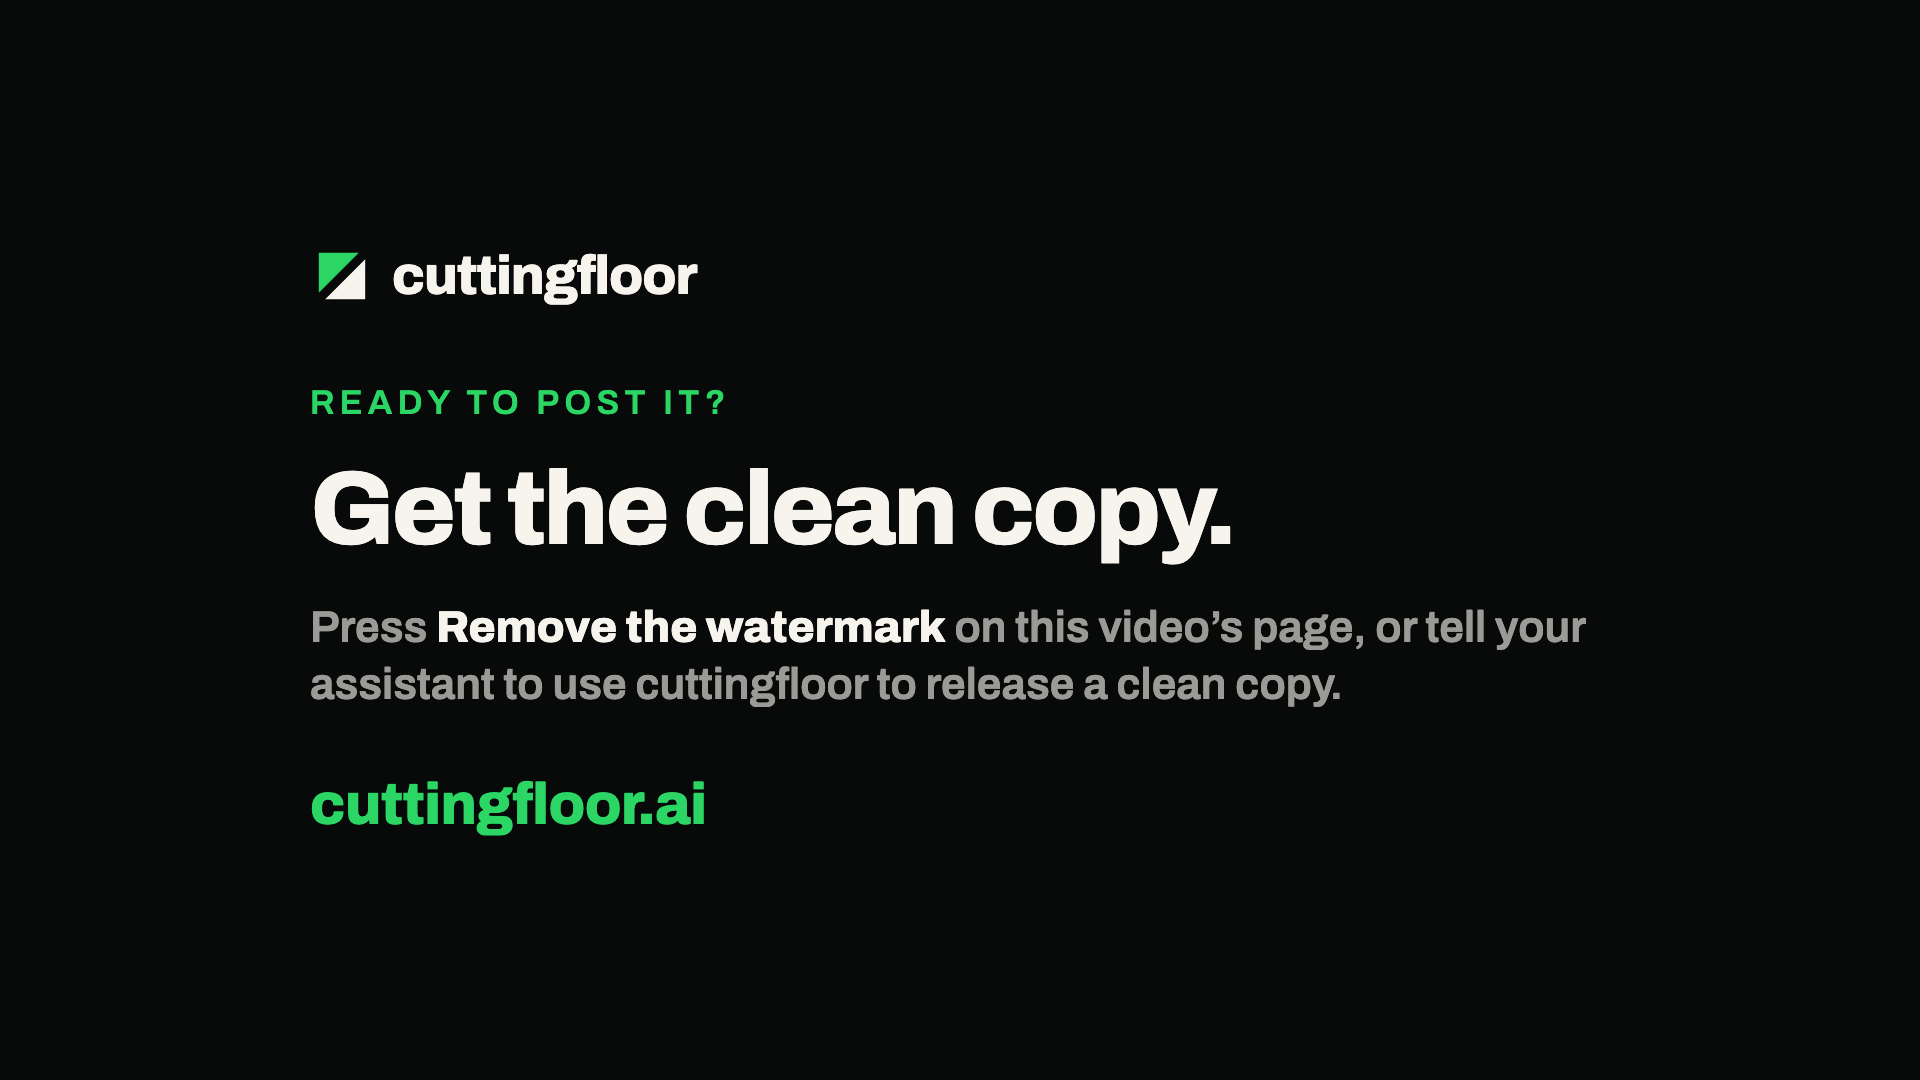
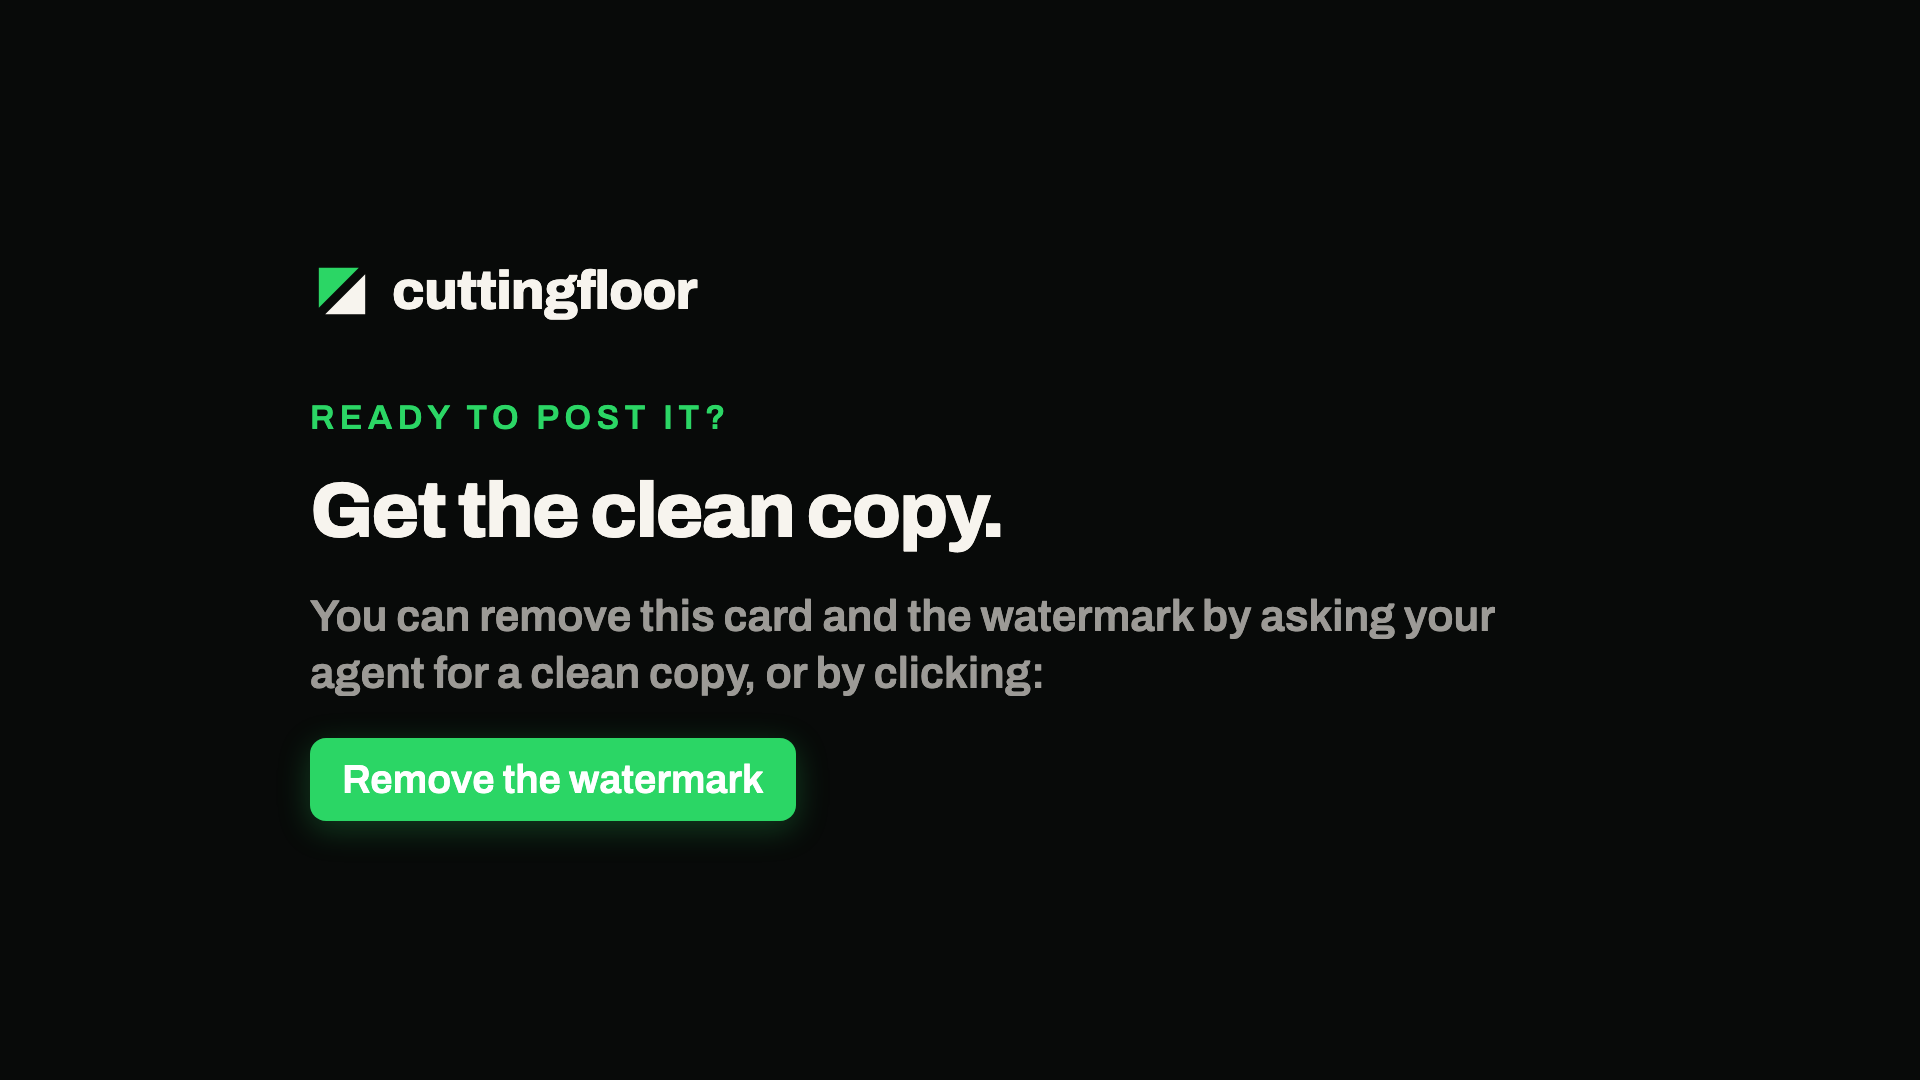
feat(engine): review cards offer the QR code as an alternative, with the button drawn
The opening card: ask your agent for a clean copy, or scan. The end card:
remove this card and the watermark by asking your agent or clicking the
Remove the watermark button (drawn as the page shows it), or scan on your
phone. Smaller headline. Cards version bumped so copies are redrawn.

diff --git a/packages/engine/scripts/build-cards.ts b/packages/engine/scripts/build-cards.ts
@@ -45,13 +45,18 @@ const CARDS = {
     eyebrow: 'Review copy',
     title: 'Keep editing until it’s right.',
     body: 'Making is free and unlimited: change it as often as you like. When it’s finished, release a clean copy.',
+    button: false,
+    ask: 'Ask your agent for a clean copy',
     foot: '',
   },
   end: {
     eyebrow: 'Ready to post it?',
     title: 'Get the clean copy.',
-    body: 'Press <b>Remove the watermark</b> on this video’s page, or tell your assistant to use cuttingfloor to release a clean copy.',
-    foot: 'cuttingfloor.ai',
+    // The button drawn as the video's page shows it, so it is recognised there.
+    body: 'You can remove this card and the watermark by asking your agent for a clean copy, or by clicking:',
+    button: true,
+    ask: 'Or scan this to release it on your phone',
+    foot: '',
   },
 } as const;
 
@@ -62,7 +67,9 @@ const CANVASES = {
 } as const;
 
 // Each card twice: plain, and `-qr` with room for the file's QR code (src/card-qr.ts draws it at
-// CARD_QR when the review copy is made) in a warm white tile, captioned. The text gives way to it.
+// CARD_QR when the review copy is made) in a warm white tile. The code is a convenience, not the
+// way: it sits in a row as the alternative to asking the assistant, joined by "or", and the text
+// gives way to that row.
 const QR_TILE_PAD = 20;
 for (const [shape, { width, height }] of Object.entries(CANVASES) as Array<
   [CardShape, { width: number; height: number }]
@@ -71,23 +78,43 @@ for (const [shape, { width, height }] of Object.entries(CANVASES) as Array<
     // Type scales with the short side; a tall canvas has room for larger type than its width says.
     const u =
       (Math.min(width, height) / 1080) *
-      (shape === 'portrait' ? 1.3 : shape === 'square' && qr ? 0.82 : 1);
+      (shape === 'portrait' ? 1.3 : shape === 'square' && qr ? 0.78 : 1);
     const measure =
-      shape === 'landscape' ? (qr ? 1000 : 1300) : shape === 'portrait' ? 700 : qr ? 640 : 900;
+      shape === 'landscape' ? (qr ? 1000 : 1300) : shape === 'portrait' ? 700 : qr ? 820 : 900;
     const box = CARD_QR[shape];
-    // Where the text may go beside the code: left of it on a wide card, above it on a tall one.
+    const tileTop = box.y - QR_TILE_PAD;
+    const tileLeft = box.x - QR_TILE_PAD;
+    const tileSide = box.size + 2 * QR_TILE_PAD;
+    // Where the text may go: left of the row on a wide card, above it on a tall or square one.
     const area = !qr
       ? 'margin: 0 auto;'
       : shape === 'landscape'
-        ? `margin: 0 0 0 ${120}px;`
-        : shape === 'portrait'
-          ? `margin: 0 auto; height: ${box.y - QR_TILE_PAD - 20}px;`
-          : `margin: 0; justify-content: flex-start; padding-top: ${72}px;`;
-    const tile = qr
-      ? `<div class="tile" style="left:${box.x - QR_TILE_PAD}px;top:${box.y - QR_TILE_PAD}px;width:${box.size + 2 * QR_TILE_PAD}px;height:${box.size + 2 * QR_TILE_PAD}px"></div>
-<div class="scan" style="left:${box.x - 160}px;top:${box.y + box.size + QR_TILE_PAD + 14}px;width:${box.size + 320}px">Scan to release a clean copy</div>`
-      : '';
+        ? 'margin: 0 0 0 120px;'
+        : `margin: 0 auto 0 ${shape === 'square' ? 0 : 'auto'}; height: ${tileTop - (shape === 'portrait' ? 40 : 24)}px;`;
+    // The row: the ask, "or", then the code. Stacked over the code on a wide card, beside it
+    // otherwise.
+    const ask =
+      shape === 'landscape'
+        ? { left: tileLeft - 60, top: 150, width: tileSide + 120, height: 230, align: 'center' }
+        : {
+            left: 96 * u,
+            top: tileTop,
+            width: tileLeft - 96 * u - (shape === 'portrait' ? 110 : 90),
+            height: tileSide,
+            align: 'left',
+          };
+    const or =
+      shape === 'landscape'
+        ? { x: tileLeft + tileSide / 2, y: tileTop - 50 }
+        : { x: tileLeft - (shape === 'portrait' ? 55 : 45), y: tileTop + tileSide / 2 };
+    const askSize = shape === 'portrait' ? 44 : shape === 'square' ? 32 : 40;
     for (const [name, card] of Object.entries(CARDS)) {
+      const row = qr
+        ? `<div class="ask" style="left:${ask.left}px;top:${ask.top}px;width:${ask.width}px;height:${ask.height}px;text-align:${ask.align};justify-content:${ask.align === 'center' ? 'flex-end' : 'center'};font-size:${askSize}px">${card.ask}</div>
+${card.button ? '' : `<div class="or" style="left:${or.x - 40}px;top:${or.y - 40}px">or</div>`}
+<div class="tile" style="left:${tileLeft}px;top:${tileTop}px;width:${tileSide}px;height:${tileSide}px"></div>
+${card.button ? '' : `<div class="scan" style="left:${tileLeft - 100}px;top:${tileTop + tileSide + 12}px;width:${tileSide + 200}px">scan to release it here</div>`}`
+        : '';
       const page = join(work, `${name}-${shape}${qr ? '-qr' : ''}.html`);
       writeFileSync(
         page,
@@ -99,19 +126,23 @@ main { box-sizing: border-box; height: 100%; padding: ${96 * u}px; display: flex
 .lockup { display: flex; align-items: center; gap: ${18 * u}px; font-weight: 800; font-size: ${54 * u}px; letter-spacing: -0.02em; }
 .lockup svg { width: ${64 * u}px; height: ${64 * u}px; }
 .eyebrow { font-weight: 600; font-size: ${34 * u}px; letter-spacing: 0.16em; text-transform: uppercase; color: ${GREEN}; margin-top: ${40 * u}px; }
-h1 { margin: 0; font-weight: 800; font-size: ${104 * u}px; line-height: 1.02; letter-spacing: -0.03em; }
+h1 { margin: 0; font-weight: 800; font-size: ${78 * u}px; line-height: 1.02; letter-spacing: -0.03em; }
 p { margin: 0; font-weight: 600; font-size: ${44 * u}px; line-height: 1.3; color: ${DIM}; }
 p b { color: ${INK}; }
 .foot { margin-top: ${24 * u}px; font-weight: 800; font-size: ${58 * u}px; color: ${GREEN}; letter-spacing: -0.01em; }
 .tile { position: absolute; background: ${INK}; border-radius: ${QR_TILE_PAD}px; }
-.scan { position: absolute; text-align: center; font-weight: 600; font-size: ${shape === 'square' ? 24 : 30}px; letter-spacing: 0.02em; color: ${DIM}; }
+.scan { position: absolute; text-align: center; font-weight: 600; font-size: ${shape === 'square' ? 22 : 28}px; letter-spacing: 0.02em; color: ${DIM}; }
+.btn { display: inline-block; font-weight: 600; font-size: ${40 * u}px; padding: ${20 * u}px ${32 * u}px; border-radius: ${16 * u}px; background: ${GREEN}; color: #fff; box-shadow: 0 ${8 * u}px ${32 * u}px rgba(43,214,101,0.25); }
+.ask { position: absolute; display: flex; flex-direction: column; font-weight: 800; line-height: 1.15; letter-spacing: -0.01em; color: ${INK}; text-wrap: balance; }
+.or { position: absolute; width: 80px; height: 80px; display: flex; align-items: center; justify-content: center; font-weight: 600; font-size: ${shape === 'square' ? 28 : 36}px; color: ${GREEN}; letter-spacing: 0.16em; text-transform: uppercase; }
 </style><main>
 <div class="lockup">${MARK}<span>cuttingfloor</span></div>
 <div class="eyebrow">${card.eyebrow}</div>
 <h1>${card.title}</h1>
 <p>${card.body}</p>
+${card.button ? '<div><span class="btn">Remove the watermark</span></div>' : ''}
 ${card.foot ? `<div class="foot">${card.foot}</div>` : ''}
-</main>${tile}`,
+</main>${row}`,
       );
       execFileSync(values.chrome, [
         '--headless=new',

diff --git a/packages/engine/src/card-qr.ts b/packages/engine/src/card-qr.ts
@@ -13,9 +13,9 @@ export type CardShape = 'landscape' | 'portrait' | 'square';
  * warm white tile around it and the caption under it): the square's left, top and side.
  */
 export const CARD_QR: Record<CardShape, { x: number; y: number; size: number }> = {
-  landscape: { x: 1384, y: 380, size: 320 },
-  portrait: { x: 380, y: 1400, size: 320 },
-  square: { x: 776, y: 744, size: 220 },
+  landscape: { x: 1460, y: 520, size: 280 },
+  portrait: { x: 660, y: 1440, size: 300 },
+  square: { x: 820, y: 790, size: 180 },
 };
 
 const BG = [0x08, 0x0a, 0x09] as const;

diff --git a/packages/server/src/gate.ts b/packages/server/src/gate.ts
@@ -74,7 +74,7 @@ interface Gated {
 const PICTURE = /^(?:video|image)\//;
 const MARKED_PREFIX = 'cf-marked--';
 /** Marked copies made with the opening and end cards; older ones (without) are made again. */
-const CARDS_VERSION = 'cards3--';
+const CARDS_VERSION = 'cards4--';
 
 export class DownloadGate {
   readonly #rt: Runtime;

diff --git a/.changeset/review-cards-or.md b/.changeset/review-cards-or.md
@@ -1,0 +1,5 @@
+---
+'cuttingfloor': patch
+---
+
+A review copy's cards show the QR code as one way among others, joined by "or": the opening card offers asking your agent for a clean copy or scanning; the end card says the card and watermark go by asking your agent or clicking the Remove the watermark button (drawn as the page shows it), or scanning on your phone. The headline is smaller. Copies made before this get the new cards on their next download.
